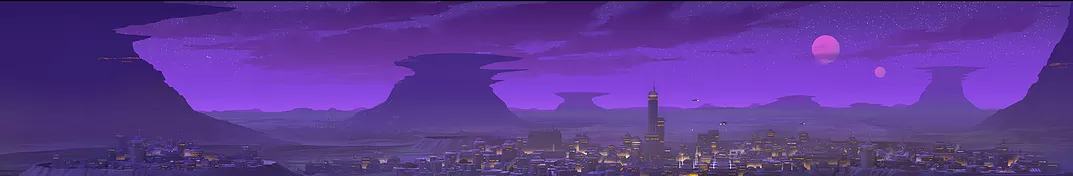
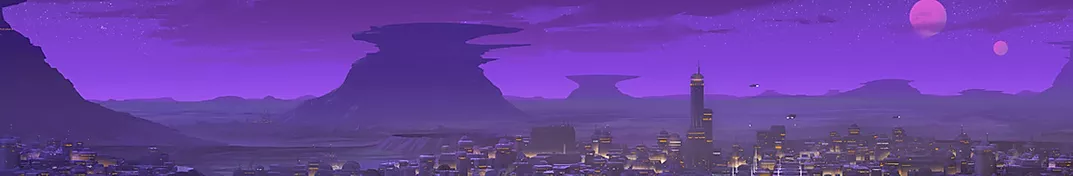
more

diff --git a/outer-rim.html b/outer-rim.html
@@ -681,7 +681,7 @@
     </div>
     <div class="coruscant">
         <div class="img-corellia2">
-            <img src="images/canto-bight.png">
+            <img src="images/cantonica.png">
             <h1><font color=#E8E5DC>Cantonica</font></h1>
             <h3><font color=#D4CAB4>&nbsp;O U T E R &nbsp; R I M</font></h3>
         </div>
@@ -1375,8 +1375,8 @@
     <div class="coruscant">
         <div class="img-corellia3">
             <img src="images/garel.png">
-            <h1><font color=#E5DAF7>Garel</font></h1>
-            <h3><font color=#E5DAF7>&nbsp;O U T E R &nbsp; R I M</font></h3>
+            <h1><font color=#bc94ff>Garel</font></h1>
+            <h3><font color=#996ce6>&nbsp;O U T E R &nbsp; R I M</font></h3>
         </div>
     </div>
     <div>
@@ -2311,9 +2311,16 @@
     <div>
         <h1>Mygeeto</h1>
         <h3><span id="ornament">j  </span> &nbsp;O U T E R &nbsp; R I M &nbsp; <span id="ornament">  j</span></h3>
-        <span id="cw-underimg">
-            <img src="images/misc/clone-wars-icon3.png">
-        </span>
+        <section id="comic-img-moon">
+            <img src="images/comics/mygeeto.png">
+        </section>
+        <div class="lit-flex">
+            <div id="lit-flex-spacarond-underimg">
+                <span id="cw-flex-underimg">
+                    <img src="images/misc/clone-wars-icon4.png" style='background-color: #333333'>
+                </span>
+            </div>
+        </div>
     </div>
 </span>
 <!--N-->

diff --git a/css/worldlist.css b/css/worldlist.css
@@ -759,6 +759,11 @@ nav img {
   transform: translate(-50%, -50%);
 }
 
+.img-noregion img {
+  border-radius: 7px;
+  width: 58%;
+}
+
 .img-noregion-nobold img {
     border-radius: 7px;
     width: 58%;
@@ -776,9 +781,23 @@ nav img {
   transform: translate(-50%, -50%);
 }
 
-.img-noregion img {
-    border-radius: 7px;
-    width: 58%;
+.img-noregion-bold img {
+  border-radius: 7px;
+  width: 58%;
+}
+
+.img-noregion-bold {
+position: relative;
+text-align: center;
+}
+
+.img-noregion-bold h1 {
+position: absolute;
+top: 44%;
+left: 50%;
+transform: translate(-50%, -50%);
+-webkit-text-stroke-color: #403F3F;
+-webkit-text-stroke-width: 2px; 
 }
 
 .img-noregion2 {
@@ -1667,6 +1686,15 @@ footer img {
       width: 180%;
   }
 
+  .img-noregion-bold img {
+    border-radius: 0px;
+    width: 180%;
+  }
+  
+  .img-noregion-bold h1 {
+  width: 70%; 
+  }
+
   /* Varkana */
 
 .img-varkana h1 {
@@ -1903,6 +1931,11 @@ footer img {
 .img-noregion2 img {
     border-radius: 0px;
     width: 135%;
+}
+
+.img-noregion-bold img {
+  border-radius: 0px;
+  width: 135%;
 }
 
  /* Varkana */
@@ -2158,6 +2191,11 @@ footer img {
     width: 108%;
 }
 
+.img-noregion-bold img {
+  border-radius: 0px;
+  width: 108%;
+}
+
 /* Varkana */
 
 .img-varkana img {
@@ -2400,6 +2438,11 @@ footer img {
 }
 
 .img-noregion2 img {
+  border-radius: 7px;
+  width: 80%;
+}
+
+.img-noregion-bold img {
   border-radius: 7px;
   width: 80%;
 }

diff --git a/regions-unknown.html b/regions-unknown.html
@@ -3157,7 +3157,7 @@
         </span>
     </div>
     <div class="coruscant">
-        <div class="img-noregion-nobold">
+        <div class="img-noregion-bold">
             <img src="images/montross.png">
             <h1><font color=#403F3F>Montross</font></h1>
         </div>
